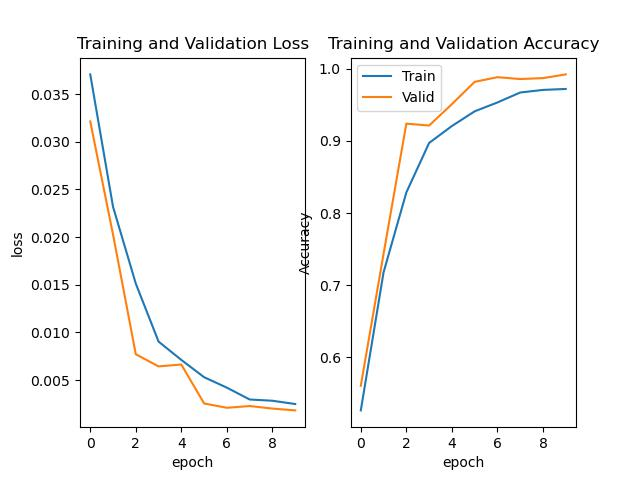
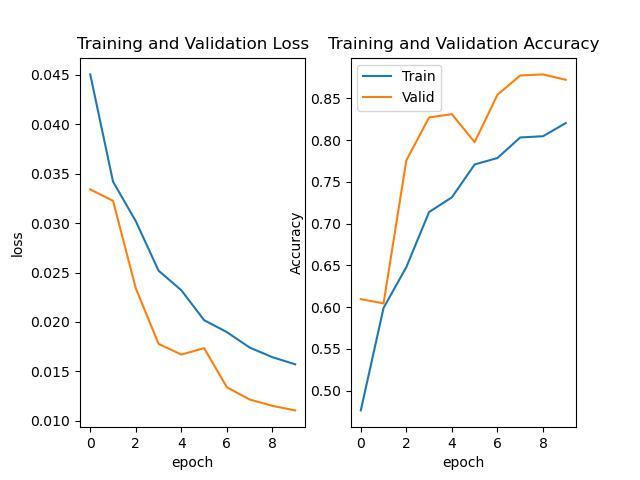
commit

diff --git a/train.py b/train.py
@@ -175,14 +175,14 @@ def test(model,test_loader):
 
 if __name__ == '__main__':
 
-    part = 2
+    part = 1
 
     if part == 2:
         print("Running ResNet+LSTM")
         model = ResNetLSTM()
     else:
         print("Running ResNet50")
-        model = torchvision.models.resnet50(pretrained=True)
+        model = torchvision.models.resnet50(pretrained=False)
         model.fc = nn.Sequential(nn.Linear(2048, 7))   
         ct = 0
         for child in model.children():

diff --git a/dataset.py b/dataset.py
@@ -15,7 +15,7 @@ import glob
 import re
 import torch
 
-part =  2
+part =  1
 sequence_length = 3
 
 
